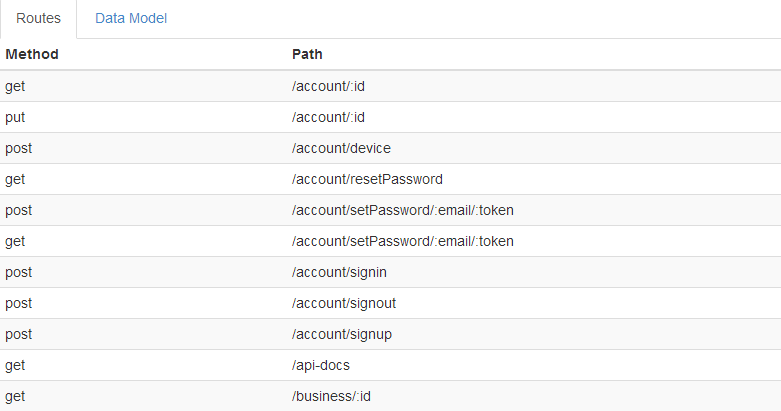
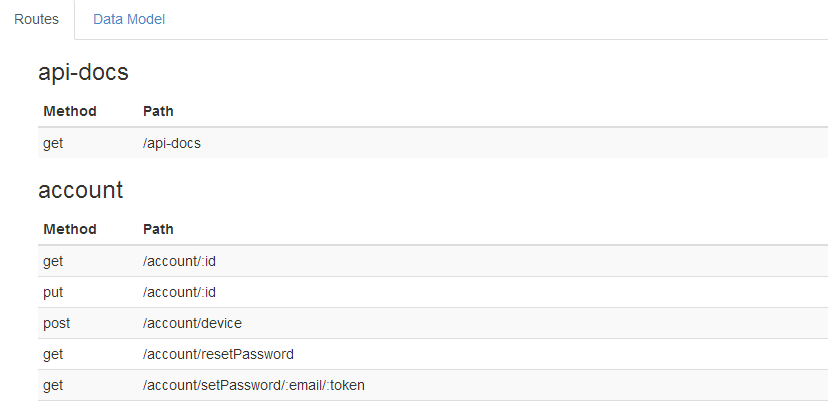
Enhancements

diff --git a/html/apiDocs/index.html b/html/apiDocs/index.html
@@ -26,18 +26,23 @@
 
     <tabset justified="false">
         <tab heading="Routes">
-                <table class="table table-striped table-condensed table-hover">
-                    <thead>
-                    <th>Method</th>
-                    <th>Path</th>
-                    </thead>
-                    <tbody>
-                    <tr ng-repeat="route in routes | orderBy:'path'">
-                        <td>{{route.method}}</td>
-                        <td>{{route.path}}</td>
-                    </tr>
-                    </tbody>
-                </table>
+            <ul>
+                <li ng-repeat="group in routes | orderBy:'group[0]'">
+                    <h3>{{group[0]}}</h3>
+                    <table class="table table-striped table-condensed table-hover">
+                        <thead>
+                        <th style="width: 100px;">Method</th>
+                        <th>Path</th>
+                        </thead>
+                        <tbody>
+                        <tr ng-repeat="route in group[1] | orderBy:'path'">
+                            <td>{{route.method}}</td>
+                            <td>{{route.path}}</td>
+                        </tr>
+                        </tbody>
+                    </table>
+                </li>
+            </ul>
 
         </tab>
         <tab heading="Data Model" ng-show="schemas">

diff --git a/index.js b/index.js
@@ -4,6 +4,10 @@ var express = require("express");
 module.exports = function(app, mongoose) {
     app.get('/api-docs', function(req, res) {
         var routes = _.flatten(app.routes);
+        routes = _.groupBy(routes, function(route) {
+            return route.path.split("/")[1];
+        });
+        routes = _.pairs(routes);
         var schemas;
         if(mongoose)
             schemas = generateSchemaDocs(mongoose);
